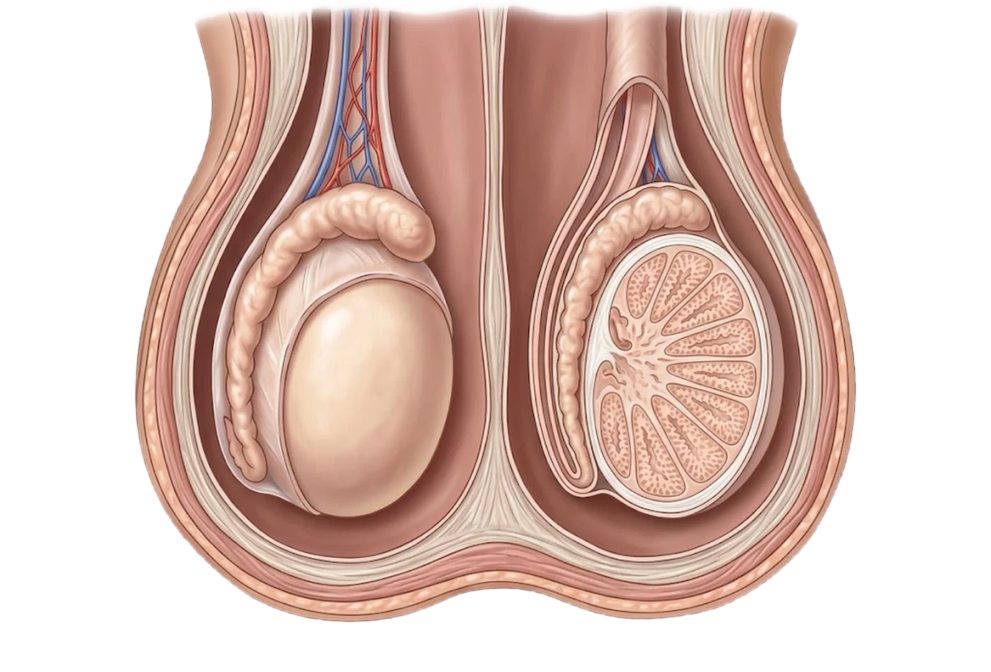
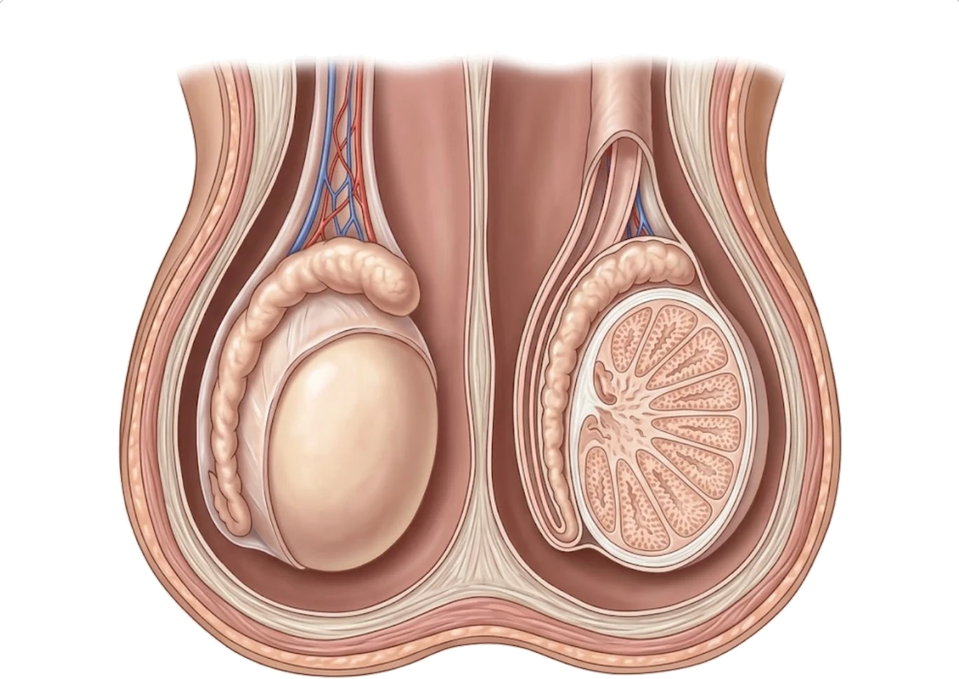
內分泌：蛙、蝴蝶發育階段與睪丸圖換成較高解析度的截圖
- 只清除畫面邊緣的黑框，保留蝌蚪等深色部位；蛙卵與尾鰭的半透明部分保留
- 成蛙腳下陰影去除；sources.md 更新

Claude-Session: https://claude.ai/code/session_01C5sYcMbEoVg2hGvSDm6pfg

diff --git a/biology_endocrine.html b/biology_endocrine.html
@@ -66,6 +66,6 @@
   <script src="assets/biology/ch4_cinematic_cover_1009_v1.js"></script>
   <script src="assets/biology/coordination_book_1009_v1.js"></script>
   <script src="assets/biology/coordination_models_1009_v1.js"></script>
-  <script src="assets/biology/endocrine_1018_v1.js?v=20261018-v2"></script>
+  <script src="assets/biology/endocrine_1018_v1.js?v=20261018-v3"></script>
 </body>
 </html>

diff --git a/assets/biology/endocrine_ai_1018/sources.md b/assets/biology/endocrine_ai_1018/sources.md
@@ -13,8 +13,8 @@
 | liver_pancreas.png | 胰臟、肝臟；血糖調節 | Human liver, gallbladder, pancreas and duodenum, front view | 截圖來源，去框、去地面陰影。 |
 | islet.png | 胰島 | Microscopic illustration of pancreatic tissue … islet of Langerhans … capillary | 截圖來源，去框。中央淺色細胞群為胰島，周圍為腺泡。 |
 | ovaries.png | 卵巢 | Human female reproductive organs, front view: uterus, fallopian tubes and two ovaries | 去白底。 |
-| testes.png | 睪丸 | Anatomical illustration of the two human testes inside the scrotum, front cross-section view | 截圖暫存版，待原始檔替換。 |
-| frog_stage1–5.png | 蛙的發育 | Five stages of frog metamorphosis in one row … | 截圖暫存版，逐階段裁切；待原始檔替換。 |
-| butterfly_stage1–4.png | 蝴蝶的發育 | Four stages of butterfly complete metamorphosis in one row … | 截圖暫存版，逐階段裁切；待原始檔替換。 |
+| testes.png | 睪丸 | Anatomical illustration of the two human testes inside the scrotum, front cross-section view | 老師放大後截圖（Gemini 無法下載原檔），去框。 |
+| frog_stage1–5.png | 蛙的發育 | Five stages of frog metamorphosis in one row … | 老師放大後截圖（Gemini 無法下載原檔），去框、逐階段裁切、去腳下陰影。 |
+| butterfly_stage1–4.png | 蝴蝶的發育 | Four stages of butterfly complete metamorphosis in one row … | 老師放大後截圖（Gemini 無法下載原檔），去框、逐階段裁切、去腳下陰影。 |
 
 腦垂腺放大圖與全身神經圖沿用 ../brain_reflex_ai_1018/（brain_sagittal.png、nervous_system_body.png）。
